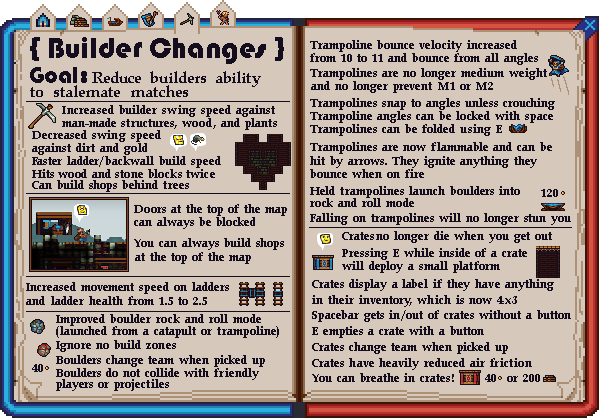
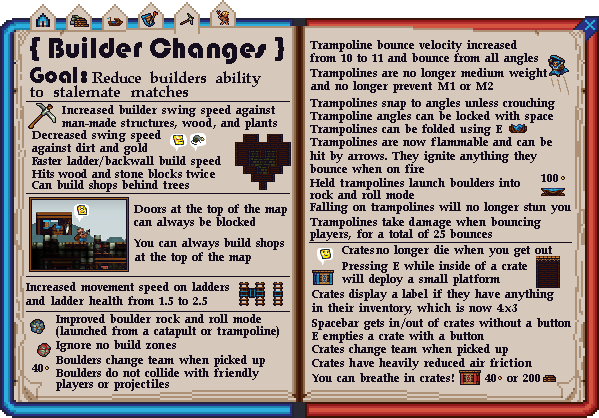
Trampoline Changes
Trampolines now cost 100 coins. Trampolines now take full damage from arrows, dying in 5 shots. Trampolines now take damage when bouncing players, dying after 25 bounces

Changed region(s): [[0.5109, 0.311, 0.9616, 0.8708]]

diff --git a/README.md b/README.md
@@ -423,14 +423,14 @@ DISCLAIMER: Developed without compatibility with other mods in mind, so there's 
 	- Knights: Slash, jab, and shield as normal
 	- Builders: Can only dig, since selecting a block makes you drop what you are holding
 - Can bounce boulders into rock and roll mode if a player is holding the trampoline
-- Cost 120 coins so they can be bought with by all classes but are less spammable
+- Cost 100 coins so they can be bought with by all classes but are less spammable
+- Now take damage when bouncing players. Can bounce 25 times
 - Snap to angles by default
 	- Can hold down to get exact angles
 - Are now flammable
 	- Ignite things that they bounce while on fire
 		- Ignite any held objects as well
-- No longer bounce enemy arrows
-- Take half damage from normal arrows
+- No longer bounce enemy arrows. Die in 5 normal arrows
 - Take increased damage in alignment with `Wood Structure Damage` section above
 - Can use action3 key (default space) to lock the angle the trampoline is facing
 	- Has small sound to indicate when the trampoline is locked
